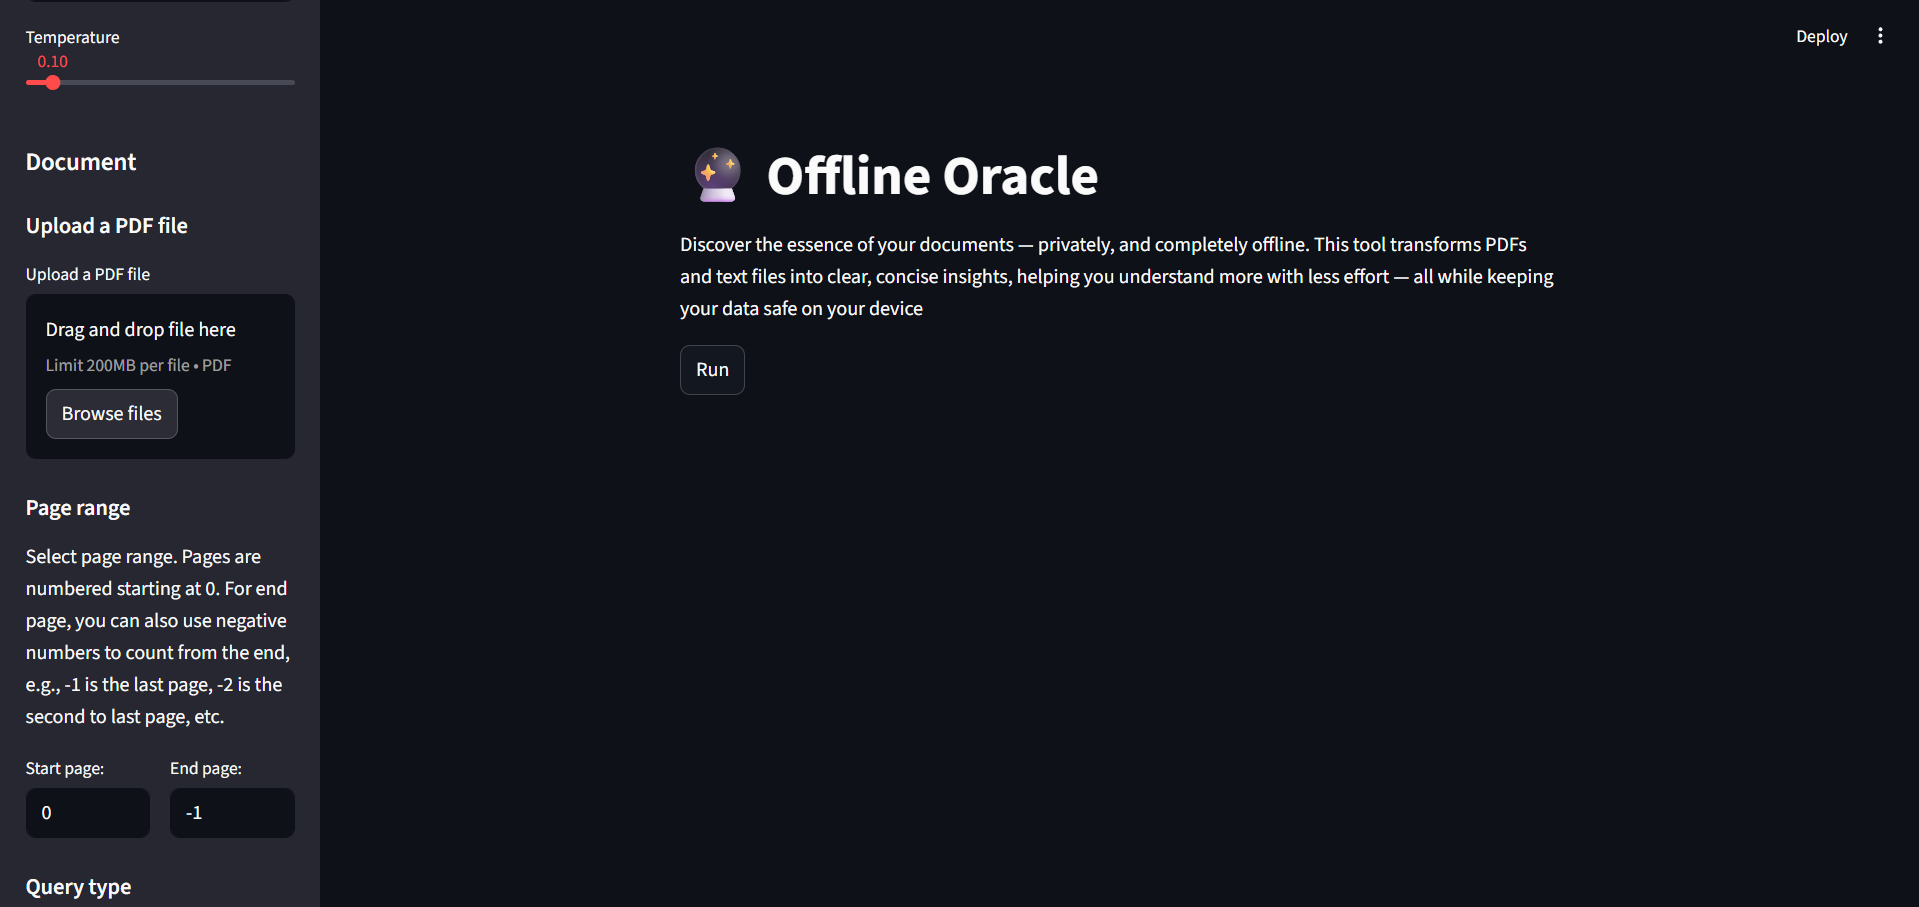
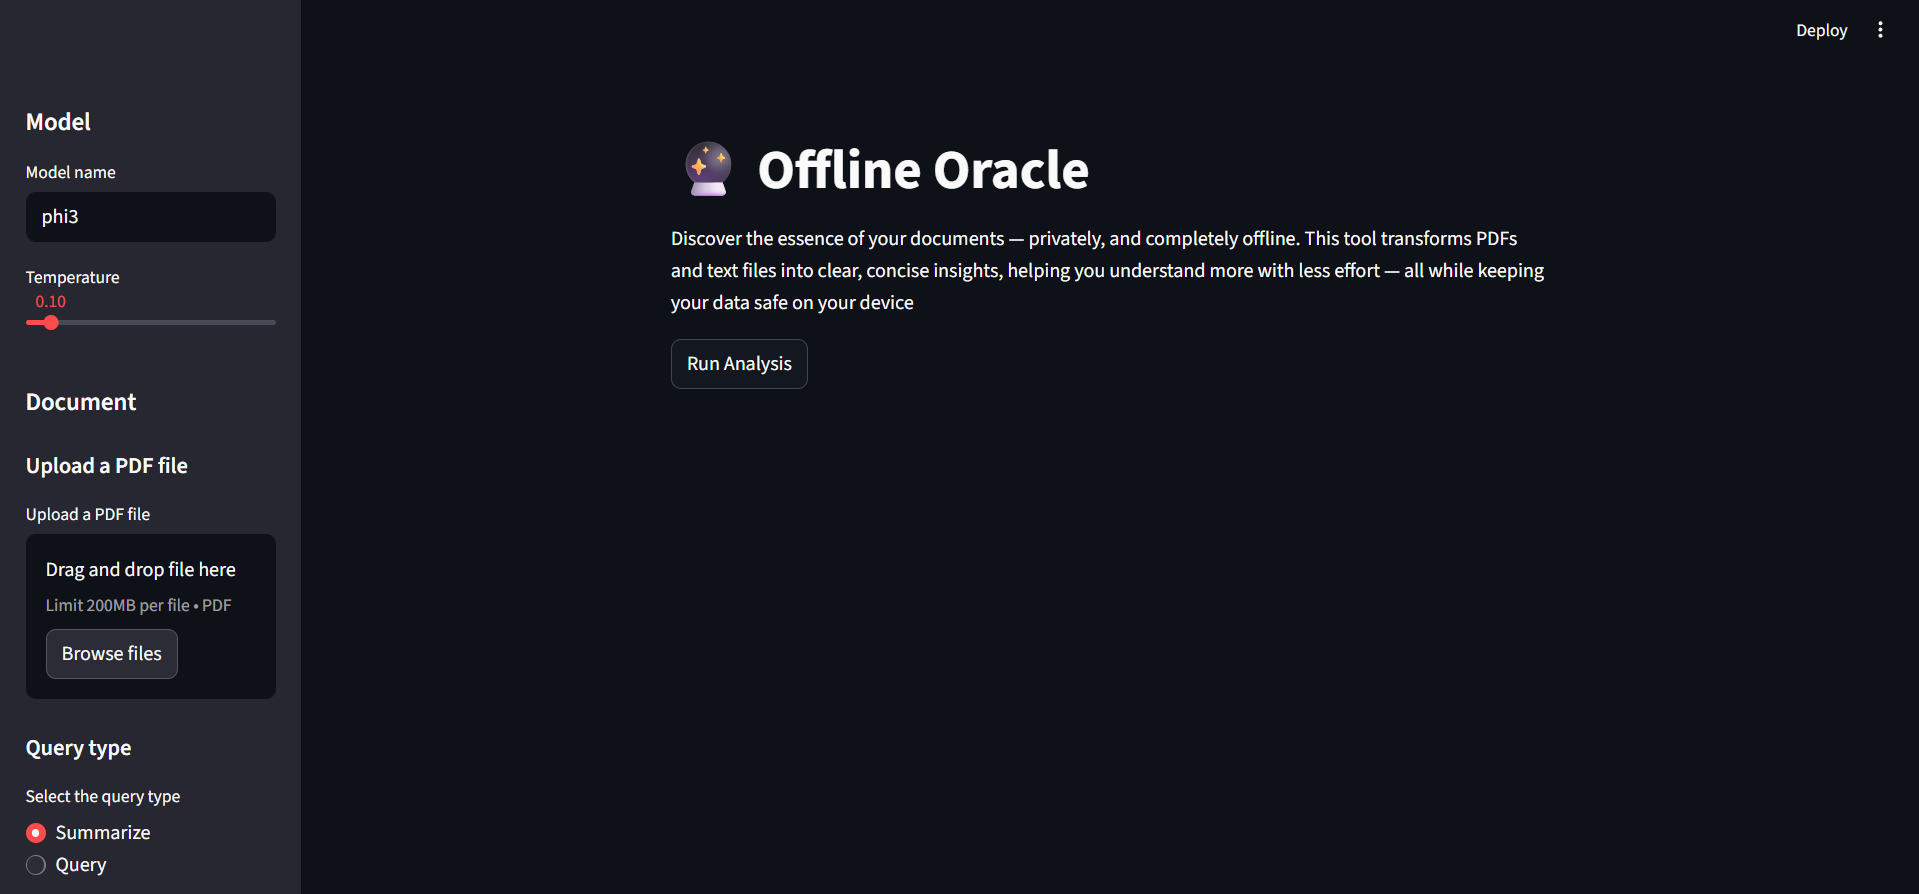
Updated the final Project with pdf extract feature.

diff --git a/doc_app.py b/doc_app.py
@@ -5,11 +5,12 @@ import streamlit as st
 from dotenv import load_dotenv
 
 from documents_llm.st_helpers import run_query
+from documents_llm.document import extract_pages_as_pdf
 
 # Load environment variables
 load_dotenv()
 
-# Load model parameters
+# Load model parameters from environment
 MODEL_NAME = os.getenv("MODEL_NAME")
 OPENAI_API_KEY = os.getenv("OPENAI_API_KEY")
 OPENAI_URL = os.getenv("OPENAI_URL")
@@ -23,31 +24,68 @@ st.write(
 
 with st.sidebar:
     st.header("Model")
-
     model_name = st.text_input("Model name", value=MODEL_NAME)
-
     temperature = st.slider("Temperature", value=0.1, min_value=0.0, max_value=1.0)
 
     st.header("Document")
     st.subheader("Upload a PDF file")
     file = st.file_uploader("Upload a PDF file", type=["pdf"])
+    
     if file:
         st.write("File uploaded successfully!")
 
-    st.subheader("Page range")
+        # --- SECTION FOR ANALYSIS PAGE RANGE (UPDATED) ---
+        st.subheader("Page range (for analysis)")
+        st.write(
+            "Select page range. Pages are numbered starting at 1. For end page, use -1 to go to the end of the document."
+        ) # <-- UPDATED HELP TEXT
+        col1, col2 = st.columns(2)
+        with col1:
+            start_page = st.number_input("Start page:", value=1, min_value=1) # <-- CHANGED value and min_value
+        with col2:
+            end_page = st.number_input("End page:", value=-1, min_value=-1) # <-- CHANGED min_value
 
-    st.write(
-        "Select page range. Pages are numbered starting at 0. For end page, you can also use negative numbers to count from the end, e.g., -1 is the last page, -2 is the second to last page, etc."
-    )
-    col1, col2 = st.columns(2)
-    with col1:
-        start_page = st.number_input("Start page:", value=0, min_value=0)
-    with col2:
-        end_page = st.number_input("End page:", value=-1)
+        # --- QUERY TYPE SECTION ---
+        st.subheader("Query type")
+        query_type = st.radio("Select the query type", ["Summarize", "Query"])
 
-    st.subheader("Query type")
+        # --- EXTRACT PAGES SECTION ---
+        st.subheader("Extract Pages")
+        st.write(
+            "Select a page range to create a new, smaller PDF. "
+            "Pages are numbered starting at 1 (like a real book)."
+        )
+        
+        extract_col1, extract_col2 = st.columns(2)
+        with extract_col1:
+            extract_start_page = st.number_input("Extract from page:", value=1, min_value=1)
+        with extract_col2:
+            extract_end_page = st.number_input("Extract to page:", value=1, min_value=1)
+        
+        if st.button("Generate Extracted PDF"):
+            try:
+                extracted_pdf_bytes = extract_pages_as_pdf(
+                    file, extract_start_page, extract_end_page
+                )
+                st.session_state.pdf_to_download = extracted_pdf_bytes
+                st.session_state.download_filename = f"extracted_{extract_start_page}-{extract_end_page}_{file.name}"
+                st.success("PDF ready for download below!")
+            except Exception as e:
+                st.error(f"Error during extraction: {e}")
 
-    query_type = st.radio("Select the query type", ["Summarize", "Query"])
+        if 'pdf_to_download' in st.session_state and st.session_state.pdf_to_download:
+            st.download_button(
+                label="Download Extracted PDF",
+                data=st.session_state.pdf_to_download,
+                file_name=st.session_state.download_filename,
+                mime="application/pdf"
+            )
+
+# This part needs to be outside the `if file:` block in case no file is uploaded yet
+if 'query_type' not in locals():
+    with st.sidebar:
+        st.subheader("Query type")
+        query_type = st.radio("Select the query type", ["Summarize", "Query"])
 
 
 if query_type == "Query":
@@ -55,8 +93,7 @@ if query_type == "Query":
         "User query", value="What is the data used in this analysis?"
     )
 
-
-if st.button("Run"):
+if st.button("Run Analysis"):
     result = None
     start = time.time()
     if file is None:
@@ -82,8 +119,8 @@ if st.button("Run"):
                 st.error(f"An error occurred: {e}")
                 result = ""
 
-        if result:
-            with st.container(border=True):
-                st.header("Result")
-                st.markdown(result)
-                st.info(f"Time taken: {time.time() - start:.2f} seconds", icon="⏱")
+    if result:
+        with st.container(border=True):
+            st.header("Result")
+            st.markdown(result)
+            st.info(f"Time taken: {time.time() - start:.2f} seconds", icon="⏱")

diff --git a/documents_llm/document.py b/documents_llm/document.py
@@ -1,4 +1,7 @@
+import io
 from pathlib import Path
+from pypdf import PdfReader, PdfWriter
+from streamlit.runtime.uploaded_file_manager import UploadedFile
 
 from langchain_community.document_loaders.pdf import PyPDFLoader
 from langchain_community.document_loaders.text import TextLoader
@@ -6,17 +9,67 @@ from langchain_core.documents.base import Document
 
 
 def load_pdf(
-    file_path: Path | str, start_page: int = 0, end_page: int = -1
+    file_path: Path | str, start_page: int = 1, end_page: int = -1
 ) -> list[Document]:
+    """
+    Loads a PDF file and returns a list of Document objects.
+    Accepts 1-based page numbers and handles a special value of -1 for end_page.
+    """
     print(f"Loading PDF: {file_path}, start_page: {start_page}, end_page: {end_page}")
     loader = PyPDFLoader(str(file_path))
-    return (
-        loader.load()[start_page:end_page]
-        if end_page != -1
-        else loader.load()[start_page:]
-    )
+    docs = loader.load()
+
+    # --- LOGIC UPDATED FOR 1-BASED INDEXING ---
+    # Convert 1-based start page to 0-based index
+    start_index = start_page - 1
+
+    if start_index < 0:
+        raise ValueError("Start page must be 1 or greater.")
+
+    if end_page == -1:
+        # Slice from the start index to the end of the document
+        return docs[start_index:]
+    else:
+        # Slice from the start index up to the end page.
+        # The end page is inclusive for the user, so it becomes the exclusive end of the slice.
+        return docs[start_index:end_page]
 
 
 def load_text(file_path: Path | str) -> list[Document]:
     loader = TextLoader(str(file_path))
     return loader.load()
+
+
+def extract_pages_as_pdf(
+    uploaded_file: UploadedFile, start_page: int, end_page: int
+) -> bytes:
+    """
+    Extracts a range of pages from an uploaded PDF and returns it as a new PDF in bytes.
+    Accepts 1-based page numbers from the user and converts them to 0-based indices.
+    """
+    uploaded_file.seek(0)
+    
+    reader = PdfReader(uploaded_file)
+    writer = PdfWriter()
+
+    num_pages = len(reader.pages)
+
+    # Convert 1-based user input to 0-based list indices
+    start_page_idx = start_page - 1
+    end_page_idx = end_page - 1
+    
+    if not (0 <= start_page_idx < num_pages):
+        raise ValueError(f"Start page '{start_page}' is out of valid range (1-{num_pages}).")
+    if not (0 <= end_page_idx < num_pages):
+         raise ValueError(f"End page '{end_page}' is out of valid range (1-{num_pages}).")
+    if start_page_idx > end_page_idx:
+        raise ValueError("Start page cannot be after the end page.")
+
+    for i in range(start_page_idx, end_page_idx + 1):
+        writer.add_page(reader.pages[i])
+
+    pdf_buffer = io.BytesIO()
+    writer.write(pdf_buffer)
+    pdf_buffer.seek(0)
+
+    return pdf_buffer.getvalue()

diff --git a/README.md b/README.md
@@ -3,13 +3,12 @@
 An interactive web application to summarize and query PDF documents using locally-run Large Language Models (LLMs). This project is designed for privacy, as all processing happens entirely on your own machine.
 
 ![Application Screenshot](screenshot.png)
-*(A screenshot of the Streamlit application interface)*
-
 ## Features
 
 - **Upload PDF Documents**: Easily upload PDF files through the web interface.
 - **Summarize Content**: Generate a concise summary of the entire document or a specific range of pages.
 - **Query Documents**: Ask specific questions about the document's content and get detailed answers.
+- **Extract Page Ranges**: Create a new, smaller PDF file containing only the pages you specify.
 - **100% Local and Private**: Runs completely offline using Ollama. No data ever leaves your computer.
 - **Configurable**: Easily change the LLM model, temperature, and page range from the UI.
 - **User-Friendly Interface**: Built with Streamlit for a clean and simple user experience.
@@ -67,7 +66,7 @@ Before you begin, ensure you have the following installed:
 
 The application uses an environment file to configure the model.
 
-1.  **Rename the sample file**: Find the file named `.env-ollama` in the project directory and rename it to `.env`.
+1.  **Create the environment file**: Find the file named `.env-ollama` in the project directory and rename it to `.env`.
 
 2.  **Verify the content**: Open the `.env` file and ensure it is configured for your local Ollama instance and the `phi3` model. It should look like this:
     ```
@@ -92,11 +91,10 @@ This will open the application in a new tab in your web browser.
 
 1.  **Configure Model (Optional)**: Use the sidebar to change the model name or adjust the temperature.
 2.  **Upload Document**: Click "Browse files" or drag and drop a PDF file into the upload area.
-3.  **Set Page Range**: Specify the start and end pages you wish to analyze. Use `0` for the first page and `-1` for the last page.
-4.  **Select Query Type**:
-    - **Summarize**: To get a general summary of the selected pages.
-    - **Query**: To ask a specific question about the document. A text box will appear for your question.
-5.  **Run**: Click the "Run" button and wait for the model to process the document and generate a response.
+3.  **Set Page Range for Analysis**: Specify the start and end pages for the AI to analyze. **Pages are numbered starting from 1.** Use `-1` for the end page to analyze until the end of the document.
+4.  **Select Query Type**: Choose whether you want to **Summarize** the document or ask a specific **Query**. A text box will appear for your question if you select "Query".
+5.  **Extract Pages (Optional)**: If you want to create a smaller PDF from the original, enter the start and end page numbers (starting from 1) in the "Extract Pages" section and click **"Generate Extracted PDF"**. A download button will appear.
+6.  **Run Analysis**: Click the **"Run Analysis"** button to have the LLM process your document based on your selected query type and page range.
 
 ---
 
